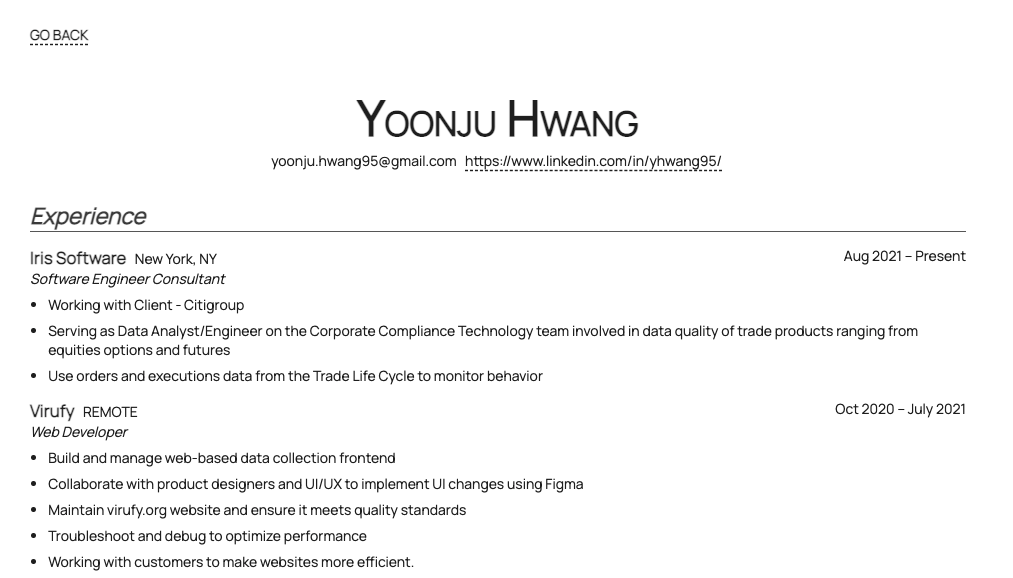
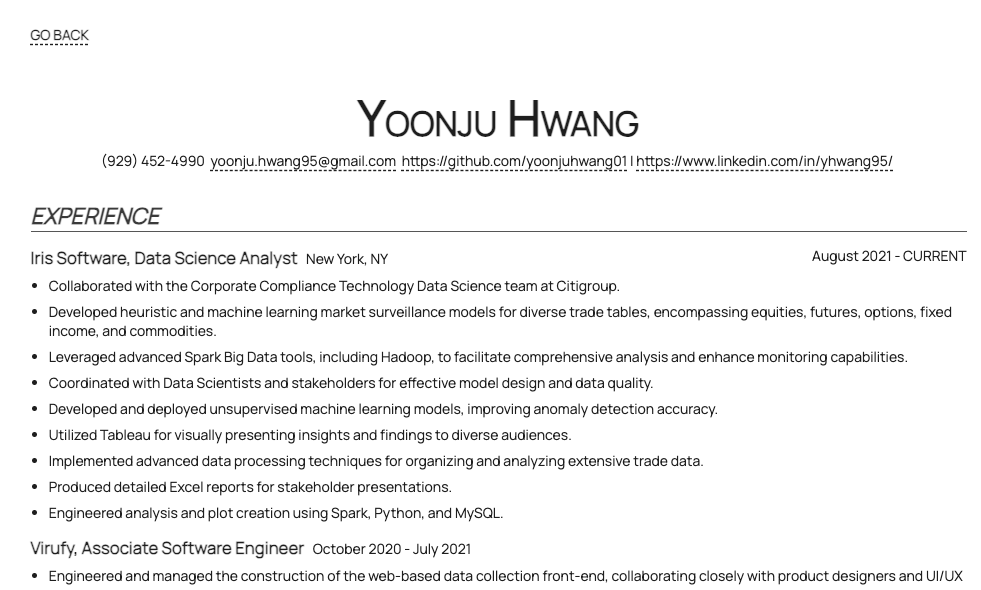
update portfolio

diff --git a/index.html b/index.html
@@ -1,23 +1,52 @@
 <!DOCTYPE html>
-<html>
+<html lang="en">
 
 <head>
-	<title>Yoonju Hwang</title>
-	<link href="https://unpkg.com/aos@2.3.1/dist/aos.css" rel="stylesheet">
-	<link rel="shortcut icon" type="image/png" href="images/favicon2.png" />
-	<link rel="stylesheet" href="https://use.fontawesome.com/releases/v5.7.2/css/all.css"
-		integrity="sha384-fnmOCqbTlWIlj8LyTjo7mOUStjsKC4pOpQbqyi7RrhN7udi9RwhKkMHpvLbHG9Sr" crossorigin="anonymous">
-	<link rel="stylesheet" type="text/css" href="main.css">
-	<!-- Global site tag (gtag.js) - Google Analytics -->
-	<script async src="https://www.googletagmanager.com/gtag/js?id=UA-222877183-1"></script>
-	<script>
-	window.dataLayer = window.dataLayer || [];
-	function gtag(){dataLayer.push(arguments);}
-	gtag('js', new Date());
+    <meta charset="UTF-8">
+    <meta name="viewport" content="width=device-width, initial-scale=1.0">
+    <title>Yoonju Hwang</title>
+    <link href="https://unpkg.com/aos@2.3.1/dist/aos.css" rel="stylesheet">
+    <link rel="shortcut icon" type="image/png" href="images/favicon2.png" />
+    <link rel="stylesheet" href="https://use.fontawesome.com/releases/v5.7.2/css/all.css"
+        integrity="sha384-fnmOCqbTlWIlj8LyTjo7mOUStjsKC4pOpQbqyi7RrhN7udi9RwhKkMHpvLbHG9Sr"
+        crossorigin="anonymous">
+    <link rel="stylesheet" type="text/css" href="main.css">
+    <!-- Global site tag (gtag.js) - Google Analytics -->
+    <script async src="https://www.googletagmanager.com/gtag/js?id=UA-222877183-1"></script>
+    <script>
+        window.dataLayer = window.dataLayer || [];
+        function gtag() { dataLayer.push(arguments); }
+        gtag('js', new Date());
 
-	gtag('config', 'UA-222877183-1');
-	</script>
+        gtag('config', 'UA-222877183-1');
+    </script>
+    <script src="https://www.gstatic.com/firebasejs/9.6.8/firebase-app.js"></script>
+    <script src="https://www.gstatic.com/firebasejs/9.6.8/firebase-auth.js"></script>
+    <script src="https://www.gstatic.com/firebasejs/9.6.8/firebase-database.js"></script>
 
+    <script type="module">
+        // Import the functions you need from the SDKs you need
+        import { initializeApp } from "https://www.gstatic.com/firebasejs/10.7.2/firebase-app.js";
+        import { getAnalytics } from "https://www.gstatic.com/firebasejs/10.7.2/firebase-analytics.js";
+        // TODO: Add SDKs for Firebase products that you want to use
+        // https://firebase.google.com/docs/web/setup#available-libraries
+
+        // Your web app's Firebase configuration
+        // For Firebase JS SDK v7.20.0 and later, measurementId is optional
+        const firebaseConfig = {
+            apiKey: "YOUR_API_KEY",
+            authDomain: "yoonju-portfolio.firebaseapp.com",
+            projectId: "yoonju-portfolio",
+            storageBucket: "yoonju-portfolio.appspot.com",
+            messagingSenderId: "263668691344",
+            appId: "1:263668691344:web:f86ccdd0e165f2af31c315",
+            measurementId: "G-4NJCDYSSDP"
+        };
+
+        // Initialize Firebase
+        const app = initializeApp(firebaseConfig);
+        const analytics = getAnalytics(app);
+    </script>
 
 </head>
 
@@ -74,22 +103,19 @@
 					<h1>About</h1>
 					<h6>Myself</h6>
 				</div>
-				<p>Hello, my name is Yoonju Hwang.<br>
-					I am seeking a Full-Time or Contract position in the Full Stack Web Developer and Software Engineer
-					where not only I can contribute my advanced knowledge in Computer Science who is responsible,
-					conscientious, attentive has a positive and strong goal-oriented personality.
-					I have a strong passion for what I am working on to become professional.
-					Moreover, I keep learning to improve my technical knowledge and skills to become a professional
-					Web Developer and Software Engineer.
+				<p>
+					Hello, my name is Yoonju Hwang.<br>
+					I am a Data Science Analyst and Software Engineer with a passion for leveraging advanced data analytics and machine learning techniques to extract valuable insights from diverse datasets.
 					<br><br>
 					Technical Skills:
-				<ul class="about-skills">
-					<li><b>Database:</b> MySQL, MongoDB, DBeaver, Django, Gatsby</li>
-					<li><b>Operating Systems:</b> Windows, Linux</li>
-					<li><b>Programming:</b> Java, JavaScript, Python, C#</li>
-					<li><b>Web:</b> HTML5, CSS, Node.js</li>
-					<li><b>Libraries:</b> Scikit-learn, Numpy, React, Maven</li>
-				</ul>
+					<ul class="about-skills">
+						<li><b>Web:</b> HTML5 / CSS, Node.js</li>
+						<li><b>Programming:</b> Python (Scikit-learn, Numpy, Pandas), Pyspark</li>
+						<li><b>Database:</b> MySQL, HDFS, Hadoop, Hive</li>
+						<li><b>Data Visualization:</b> Tableau</li>
+						<li><b>Frameworks:</b> Gatsby, React, Django</li>
+						<li><b>Version Control:</b> GitHub, Bitbucket</li>
+					</ul>
 				</p>
 				<div class="social-media">
 					<ul class="nav-list">
@@ -122,7 +148,7 @@
 					<div class="icon-container">
 						<i class="fas fa-layer-group"></i>
 					</div>
-					<h1>Web Design</h1>
+					<h1>Analyze Data</h1>
 					
 				</div>
 				<div class="skill" data-aos="fade-in" data-aos-delay="600">
@@ -228,48 +254,72 @@
 	</section>
 
 
-
-	<section claa="contact" id="contact">
+	<section class="contact" id="contact">
 		<div class="container">
 			<div class="section-heading">
 				<h1>Contact</h1>
 				<h6>Let's work together</h6>
 			</div>
-
-			<form action="" data-aos="fade-up" data-aos-delay="300">
+	
+			<form id="contactForm" data-aos="fade-up" data-aos-delay="300">
 				<label for="name">Name:</label>
 				<input type="text" id="name" name="name" placeholder="Enter your name..." required>
+	
 				<label for="email">Email:</label>
 				<input type="email" id="email" name="email" placeholder="Enter your E-mail..." required>
+	
 				<label for="service">Services:</label>
 				<select name="services" id="service">
-					<option value="">Web Design </option>
-					<option value="">Web Development</option>
-					<option value="">Web Design/Development</option>
+					<option value="Web Design">Web Design</option>
+					<option value="Web Development">Web Development</option>
+					<option value="Web Design/Development">Web Design/Development</option>
 				</select>
+	
 				<label for="subject">Subject:</label>
 				<textarea name="subject" id="subject" cols="10" rows="10"></textarea>
-				<input type="submit" name="Submit">
+	
+				<input type="submit" value="Submit">
 			</form>
-
+	
+			<script>
+				document.getElementById('contactForm').addEventListener('submit', function (e) {
+					e.preventDefault();
+	
+					const name = document.getElementById('name').value;
+					const email = document.getElementById('email').value;
+					const service = document.getElementById('service').value;
+					const subject = document.getElementById('subject').value;
+	
+					// Push data to Firebase Realtime Database
+					firebase.database().ref('contacts').push({
+						name: name,
+						email: email,
+						service: service,
+						subject: subject,
+						timestamp: firebase.database.ServerValue.TIMESTAMP
+					});
+	
+					// Optionally, reset the form after submission
+					document.getElementById('contactForm').reset();
+				});
+			</script>
 		</div>
 	</section>
+	
 
 	<footer class="copyright">
 		<div class="up" id="up">
 			<i class="fas fa-chevron-up"></i>
 
 		</div>
-		<p>&copy; 2022 Yoonju Hwang</p>
+		<p>&copy; 2024 Yoonju Hwang</p>
 	</footer>
 
 
 
-	<script src="https://unpkg.com/aos@2.3.1/dist/aos.js"></script>
-
-	<script src="https://ajax.googleapis.com/ajax/libs/jquery/3.5.1/jquery.min.js"></script>
-
 </body>
+<script src="https://unpkg.com/aos@2.3.1/dist/aos.js"></script>
+<script src="https://ajax.googleapis.com/ajax/libs/jquery/3.5.1/jquery.min.js"></script>
 <script src="main.js"></script>
 
 </html>
